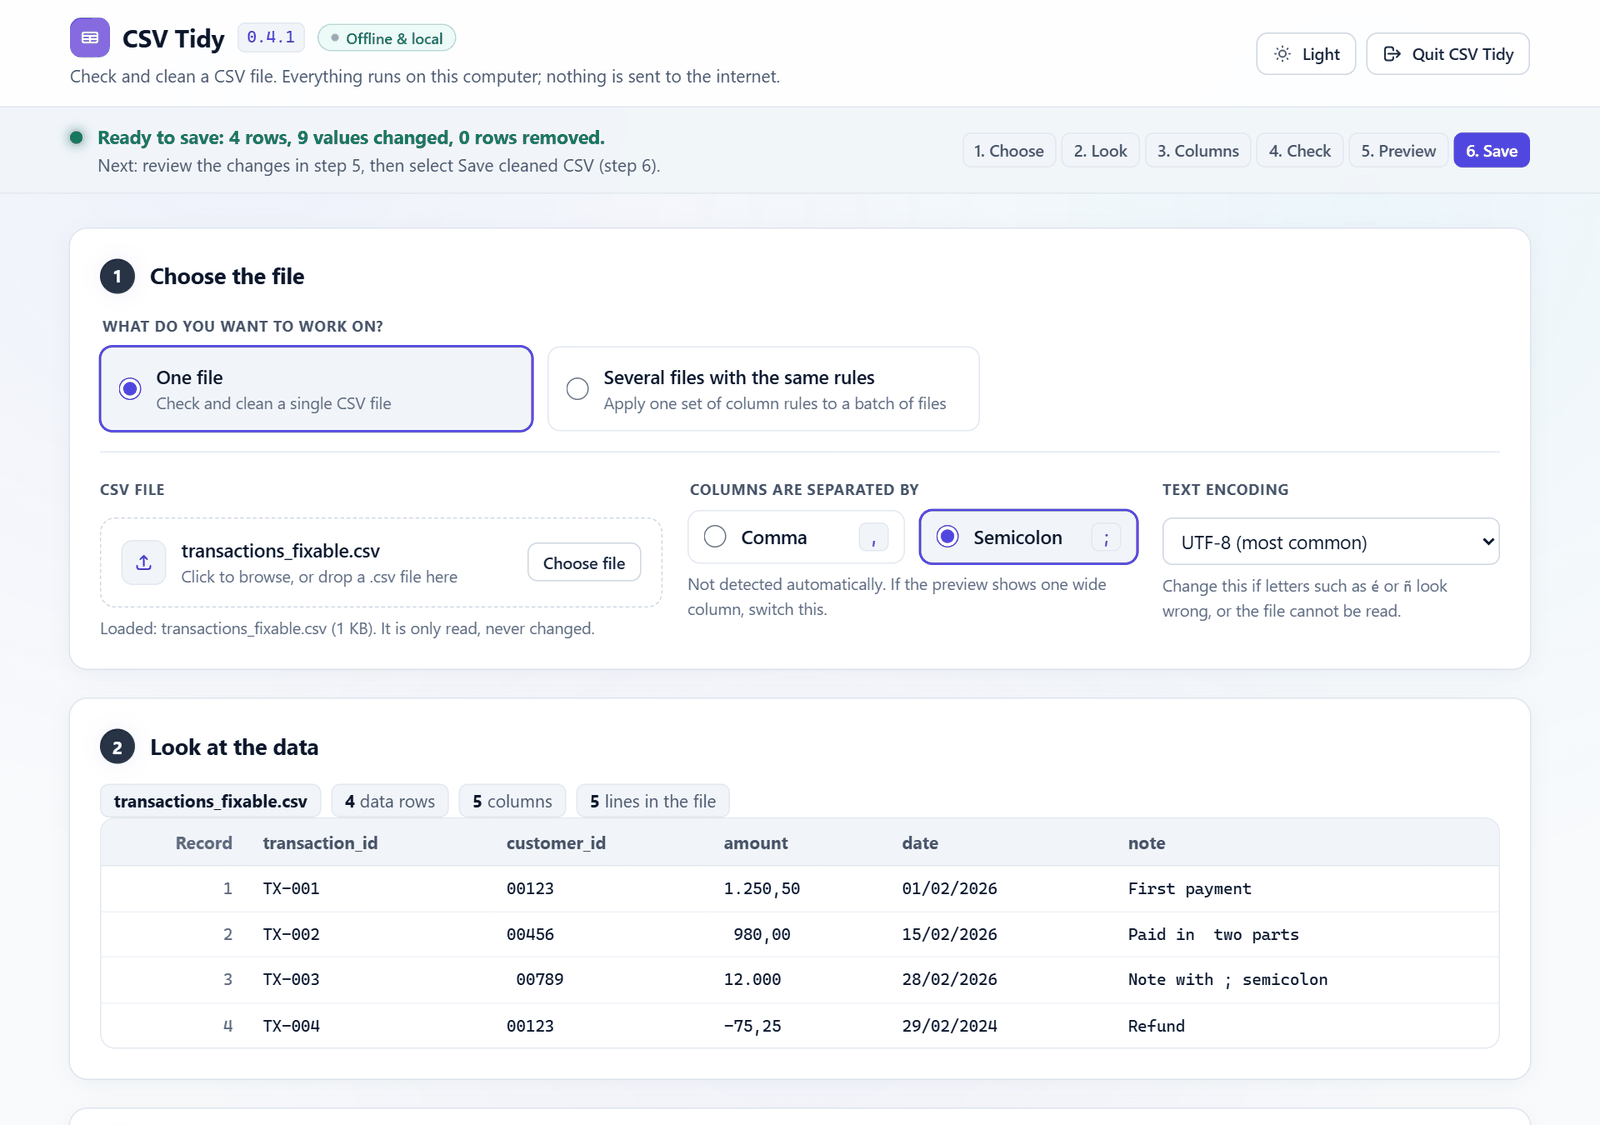
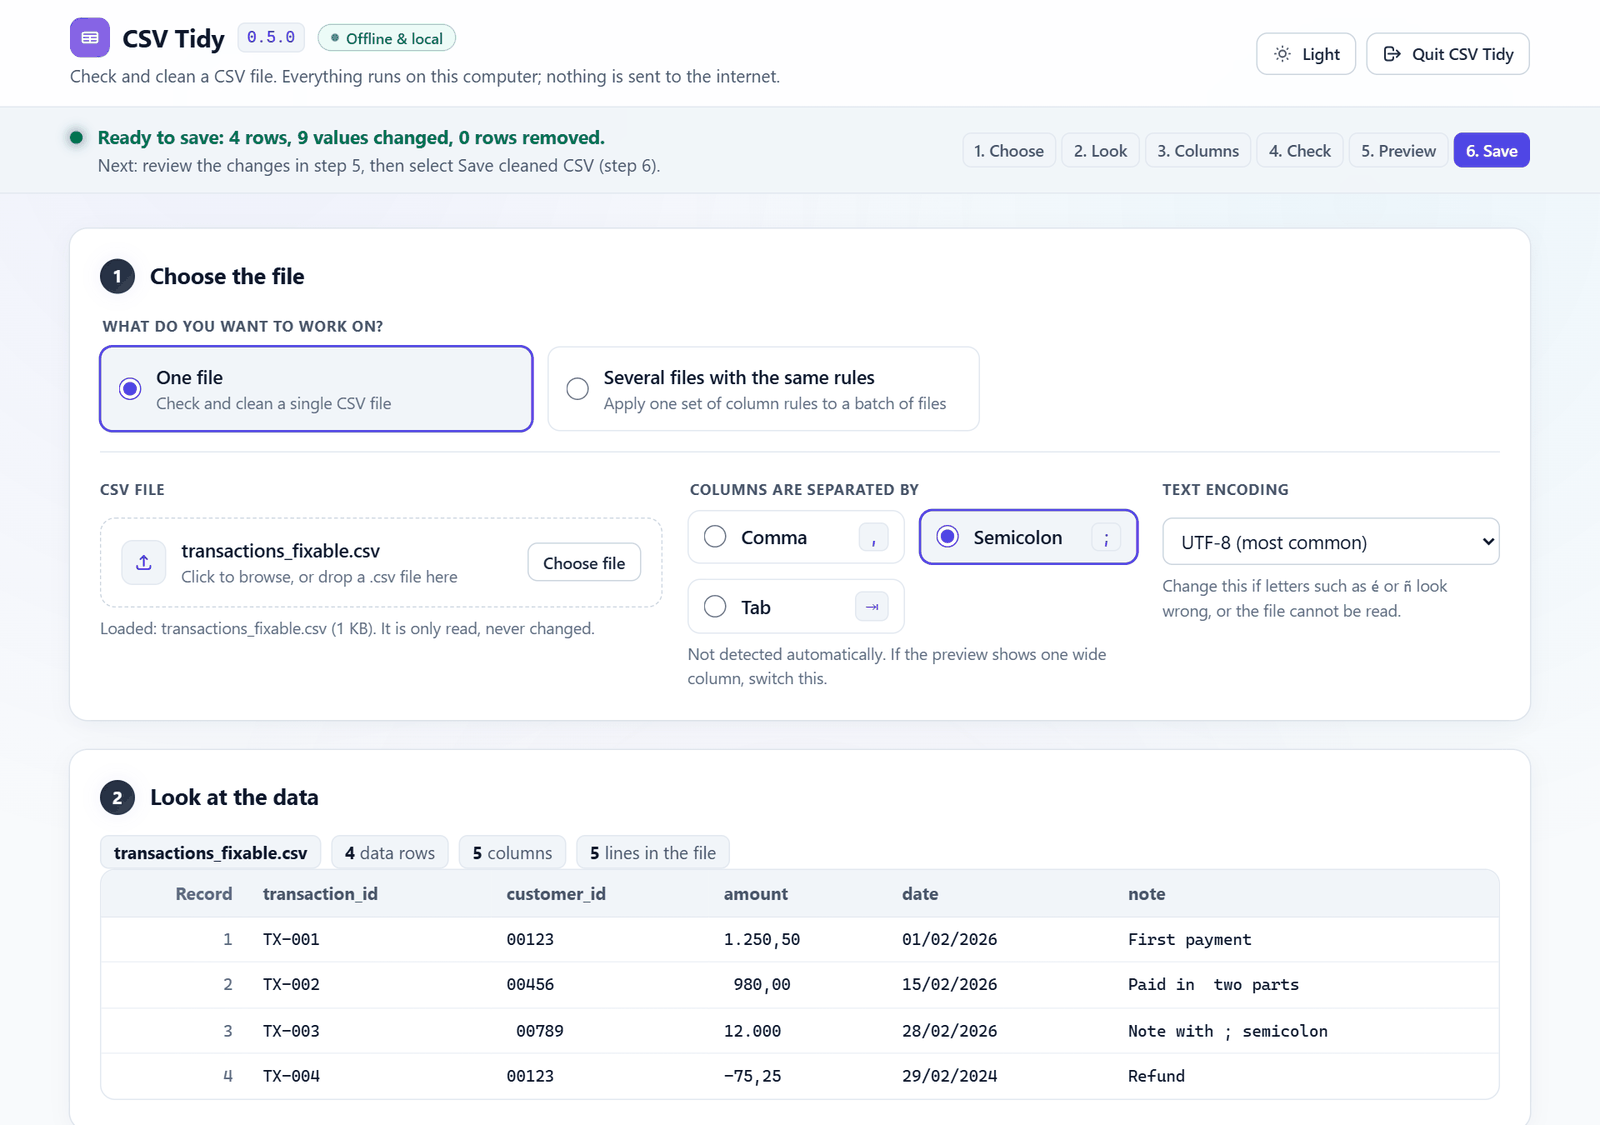
Prepare the CSV Tidy 0.5.0 release
Set the version to 0.5.0, move the Unreleased changes under 0.5.0 with
its date, a summary, and upgrade notes, and update the README's version
and sample report headers. The README screenshots are retaken so that
they show 0.5.0 and the new Tab choice.

diff --git a/src/csv_tidy/__init__.py b/src/csv_tidy/__init__.py
@@ -7,7 +7,7 @@ Public API::
 See docs/ARCHITECTURE.md for the result model and exceptions.
 """
 
-__version__ = "0.4.1"
+__version__ = "0.5.0"
 
 from .api import CheckResult, CleanResult, ScanInfo, check_file, clean_file, export_clean
 from .batch import BatchResult, run_batch, select_inputs

diff --git a/README.md b/README.md
@@ -78,7 +78,7 @@ Requires Python 3.11 or newer. CSV Tidy is **not published on PyPI**. Published 
 installation files (a wheel and a source distribution) are listed on the
 [GitHub Releases page](https://github.com/JudikaM/csv-tidy/releases); a downloaded wheel
 installs with `python -m pip install <path-to-wheel>` inside a virtual environment. This
-README describes version 0.4.1; changes made after a release are listed under "Unreleased"
+README describes version 0.5.0; changes made after a release are listed under "Unreleased"
 in the [changelog](CHANGELOG.md). You can also install from a source checkout:
 
 Windows PowerShell (calling the virtual environment's programs directly, so the
@@ -189,7 +189,7 @@ normalize = ["amount", "date"]
 ### 1. Check
 
 ```text
-CSV Tidy 0.4.1 - check
+CSV Tidy 0.5.0 - check
 Verdict: FAILED - 2 errors found in the source file.
 Source: examples\transactions_fixable.csv
 Profile: examples\profiles\transactions-id.toml
@@ -243,7 +243,7 @@ JSON for pipelines (stdout contains only JSON; status messages go to stderr):
 ### 2. Preview a clean (dry run is the default)
 
 ```text
-CSV Tidy 0.4.1 - clean (dry run, nothing written)
+CSV Tidy 0.5.0 - clean (dry run, nothing written)
 Verdict: READY TO EXPORT - no errors remain in the cleaned result; 2 source problems repaired.
 ...
 Transformations (applied in this order):
@@ -416,7 +416,7 @@ step-by-step guide for first-time users is in
 ```
 
 ```text
-CSV Tidy 0.4.1 - batch clean (dry run, nothing written)
+CSV Tidy 0.5.0 - batch clean (dry run, nothing written)
 Verdict: 2 of 4 files need attention (2 with data errors).
 Profile: examples\profiles\transactions-id.toml
 

diff --git a/CHANGELOG.md b/CHANGELOG.md
@@ -6,6 +6,18 @@ All notable changes are documented here. The format follows
 
 ## [Unreleased]
 
+## [0.5.0] - 2026-10-29
+
+Dates without separators, tab-separated files, per-column formats in `profile init`,
+protection against formulas in exported files, a fix for the local interface, and tooling that
+checks what the project claims: types, every supported Python version on Linux, Windows, and
+macOS, test coverage, dependency vulnerabilities, and code scanning.
+
+**Upgrade notes.** Profiles, CLI options, exit codes, and the Python API of 0.4 keep working
+unchanged; everything new is opt-in. JSON reports gain `transformations.neutralize_formulas`
+(an empty list when unused). A profile written by 0.5 is still read by 0.4 unless it uses a
+tab delimiter, a date format without separators, or `neutralize_formulas`.
+
 ### Added
 
 - Date formats without separators, such as `YYYYMMDD` (`20261231`) and `DDMMYYYY`, for source
